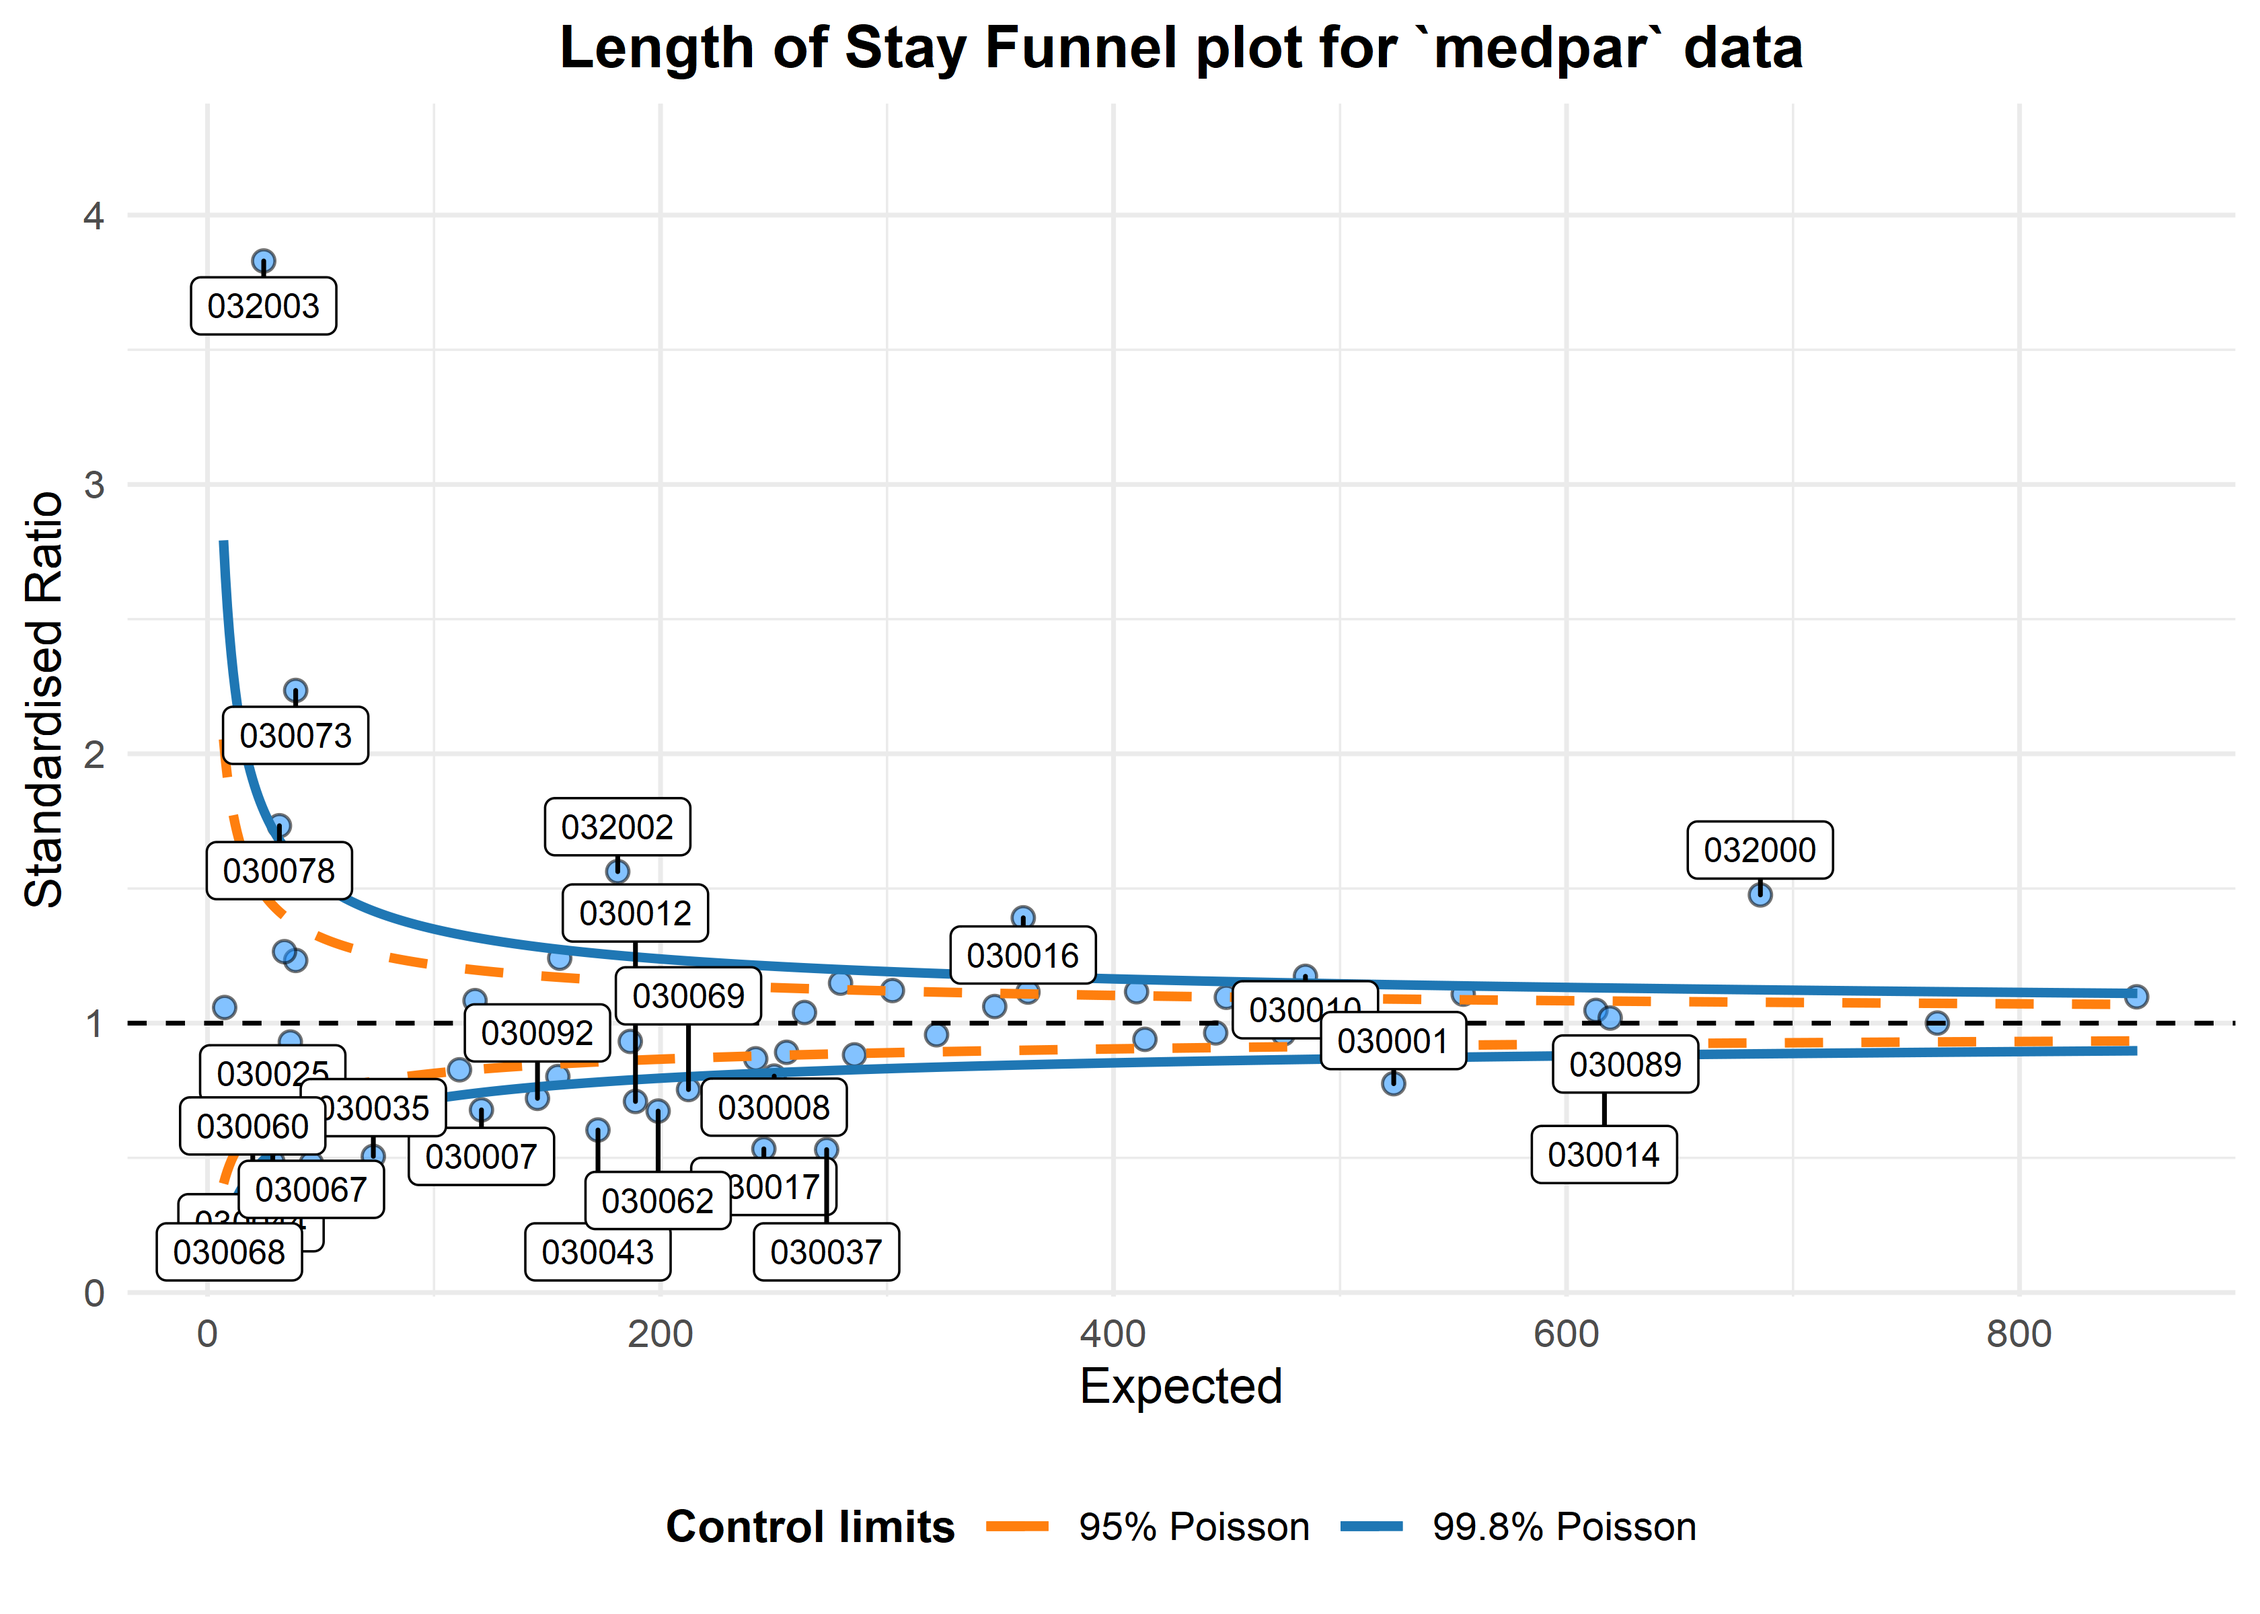
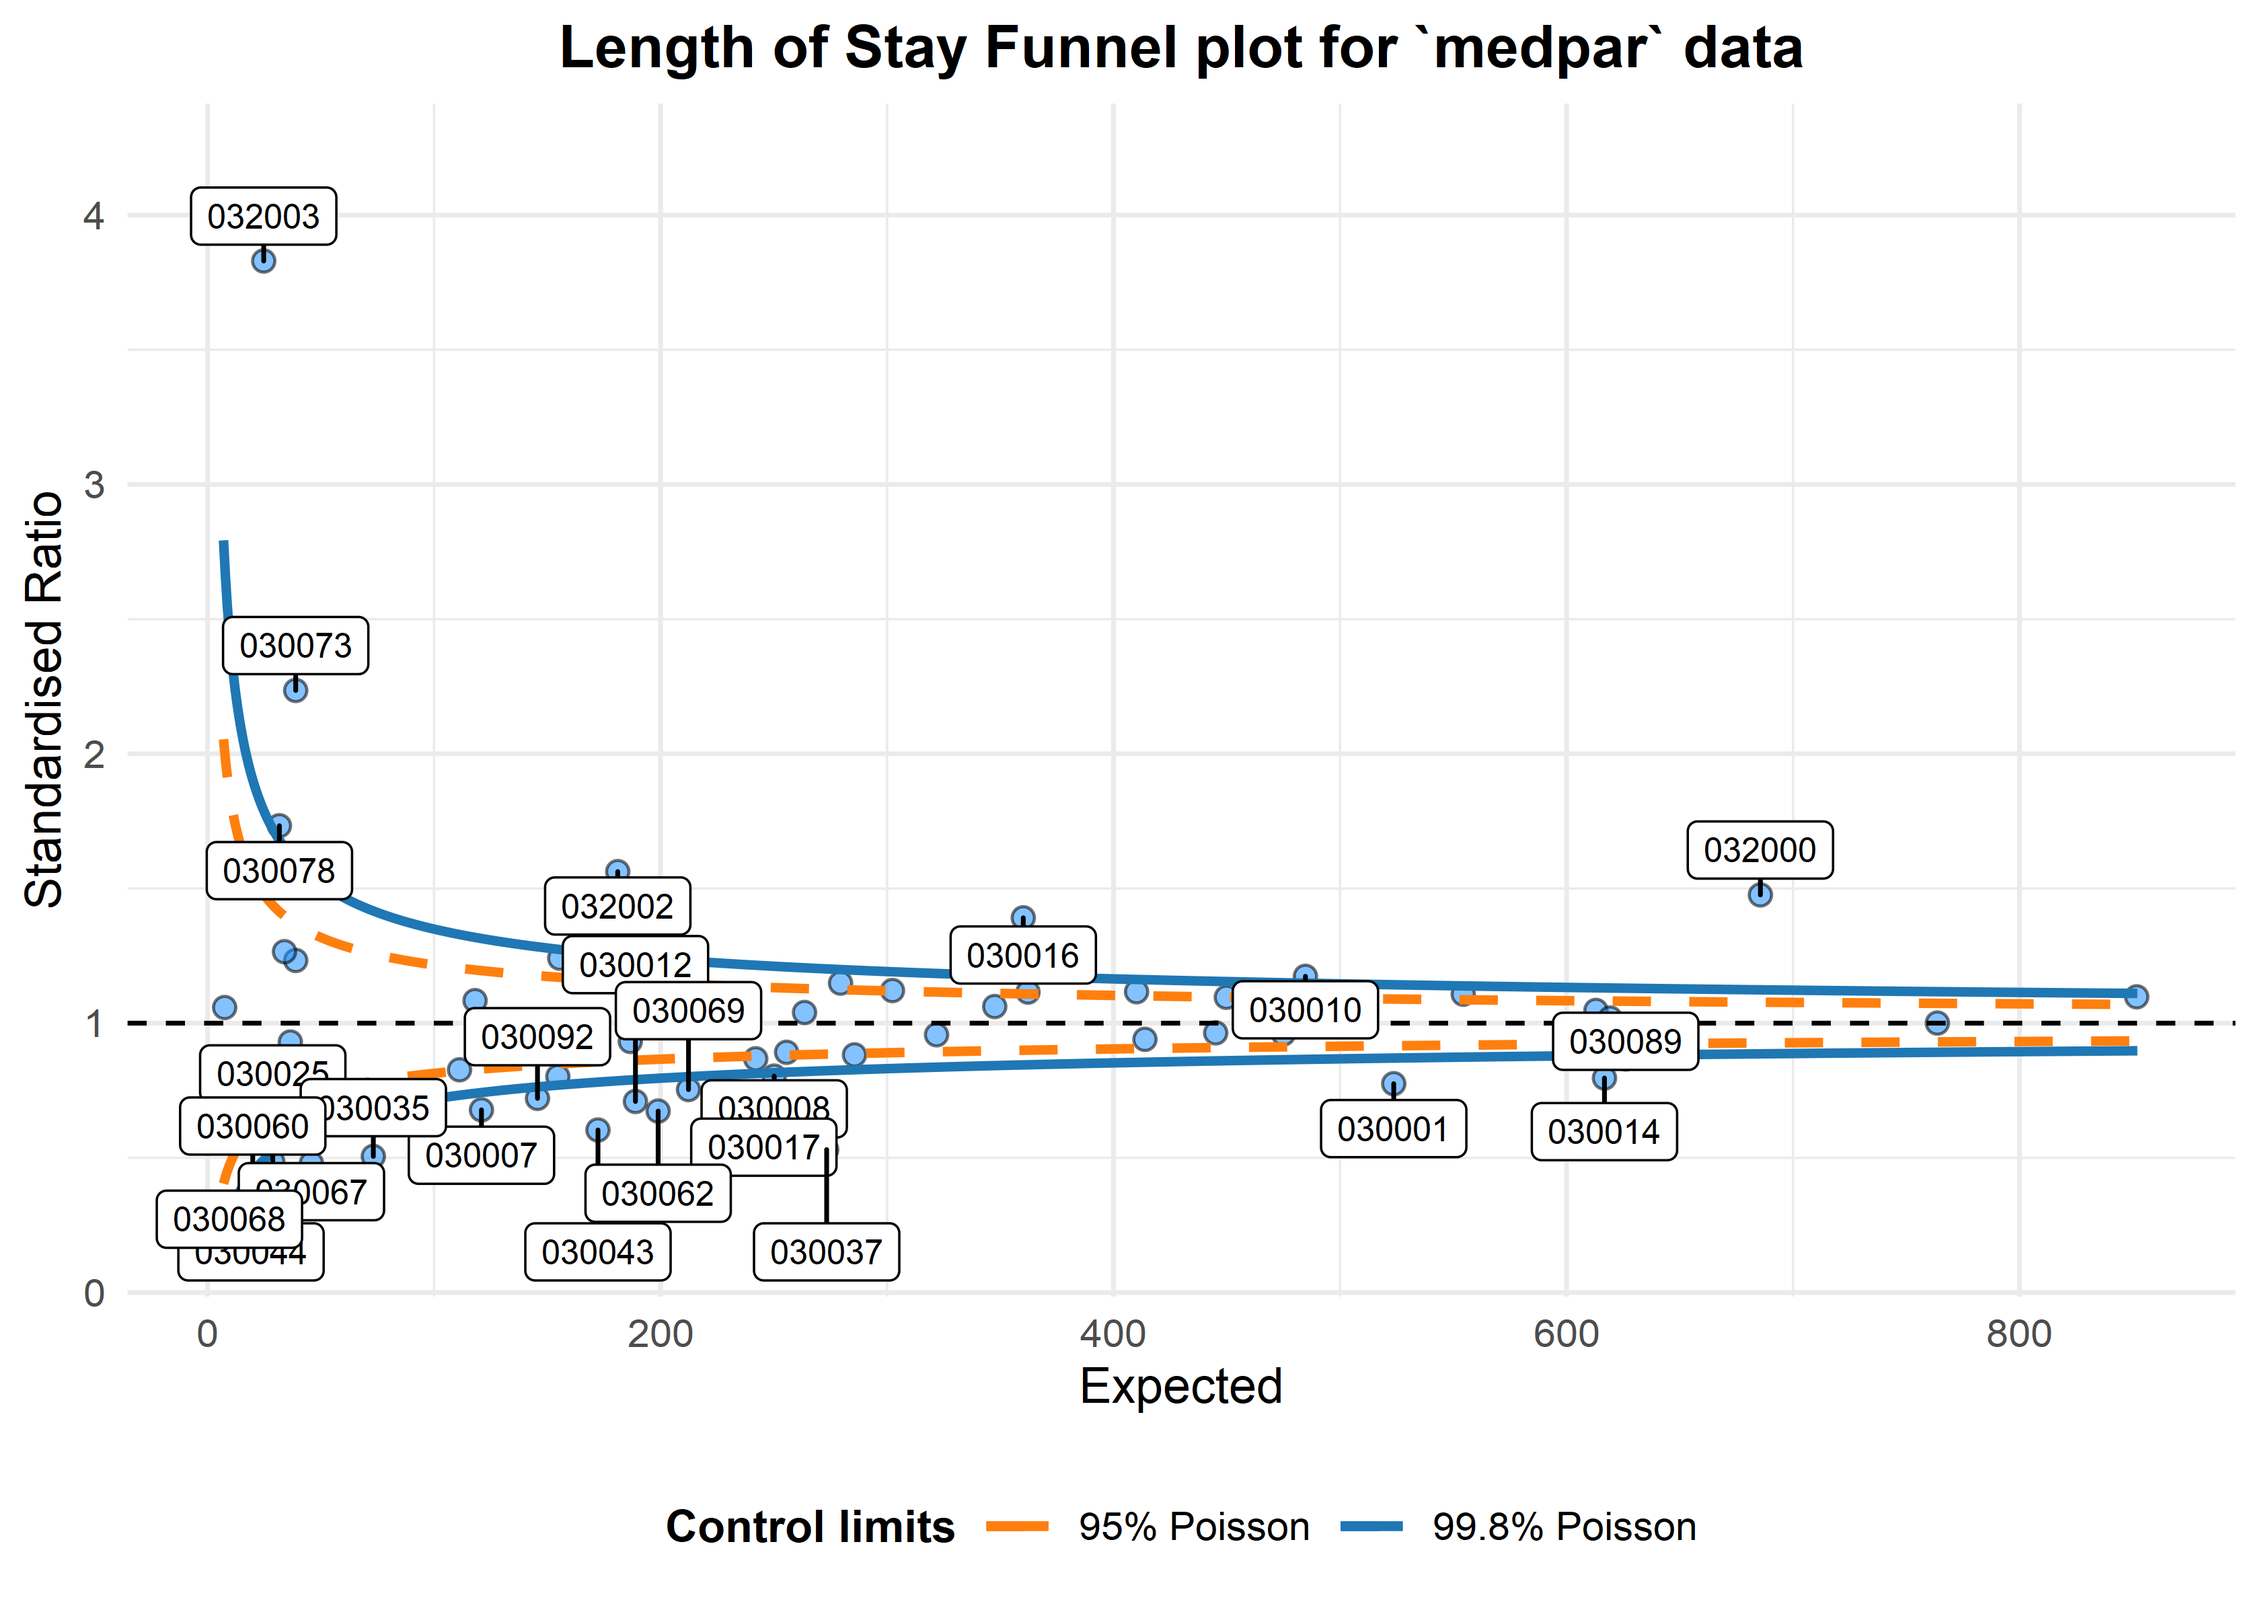
update vignette and readme

diff --git a/README.md b/README.md
@@ -10,9 +10,10 @@ state and is being actively
 developed.](https://www.repostatus.org/badges/latest/active.svg)](https://www.repostatus.org/#active)
 [![CRAN
 version](http://www.r-pkg.org/badges/version/FunnelPlotR)](https://cran.r-project.org/package=FunnelPlotR)
-![](http://cranlogs.r-pkg.org/badges/grand-total/FunnelPlotR)
-[![codecov](https://codecov.io/gh/chrismainey/FunnelPlotR/branch/master/graph/badge.svg)](https://codecov.io/gh/chrismainey/FunnelPlotR)
-<br><br> <!-- badges: end -->
+![](http://cranlogs.r-pkg.org/badges/grand-total/FunnelPlotR) [![Codecov
+test
+coverage](https://codecov.io/gh/chrismainey/FunnelPlotR/branch/master/graph/badge.svg)](https://codecov.io/gh/chrismainey/FunnelPlotR?branch=master)
+<!-- badges: end -->
 
 ## Funnel Plots
 
@@ -134,13 +135,15 @@ and outliers labelled.
 
 ``` r
 a<-funnel_plot(numerator=medpar$los, denominator=medpar$prds, group = medpar$provnum, 
-            title = 'Length of Stay Funnel plot for `medpar` data', data_type="SR",
-            Poisson_limits = TRUE, OD_adjust = FALSE, label_outliers = 99, return_elements = "plot" )
-a
-#> $plot
+            title = 'Length of Stay Funnel plot for `medpar` data', data_type="SR", limit=99,
+            Poisson_limits = TRUE, OD_adjust = FALSE, label_outliers = TRUE)
+print(a)
 ```
 
 <img src="man/figures/README-funnel1-1.png" width="100%" style="display: block; margin: auto;" />
+
+    #> A funnel plot object with 54 points of which 25 are outliers. 
+    #> Plot is not adjusted for overdispersion.
 
 <br><br>
 
@@ -164,13 +167,15 @@ for this by inflating the limits:
 ``` r
 b<-funnel_plot(numerator=medpar$los, denominator=medpar$prds, group = medpar$provnum, data_type = "SR",
             title = 'Length of Stay Funnel plot for `medpar` data', Poisson_limits = FALSE,
-            OD_adjust = TRUE, sr_method = "SHMI",label_outliers = 99, return_elements = "plot")
+            OD_adjust = TRUE, sr_method = "SHMI",label_outliers = 99)
 
-b
-#> $plot
+print(b)
 ```
 
 <img src="man/figures/README-funnel2-1.png" width="100%" style="display: block; margin: auto;" />
+
+    #> A funnel plot object with 54 points of which 9 are outliers. 
+    #> Plot is adjusted for overdispersion.
 
 <br><br> These methods can be used for any similar indicators,
 e.g. standardised mortality ratios, readmissions etc.
